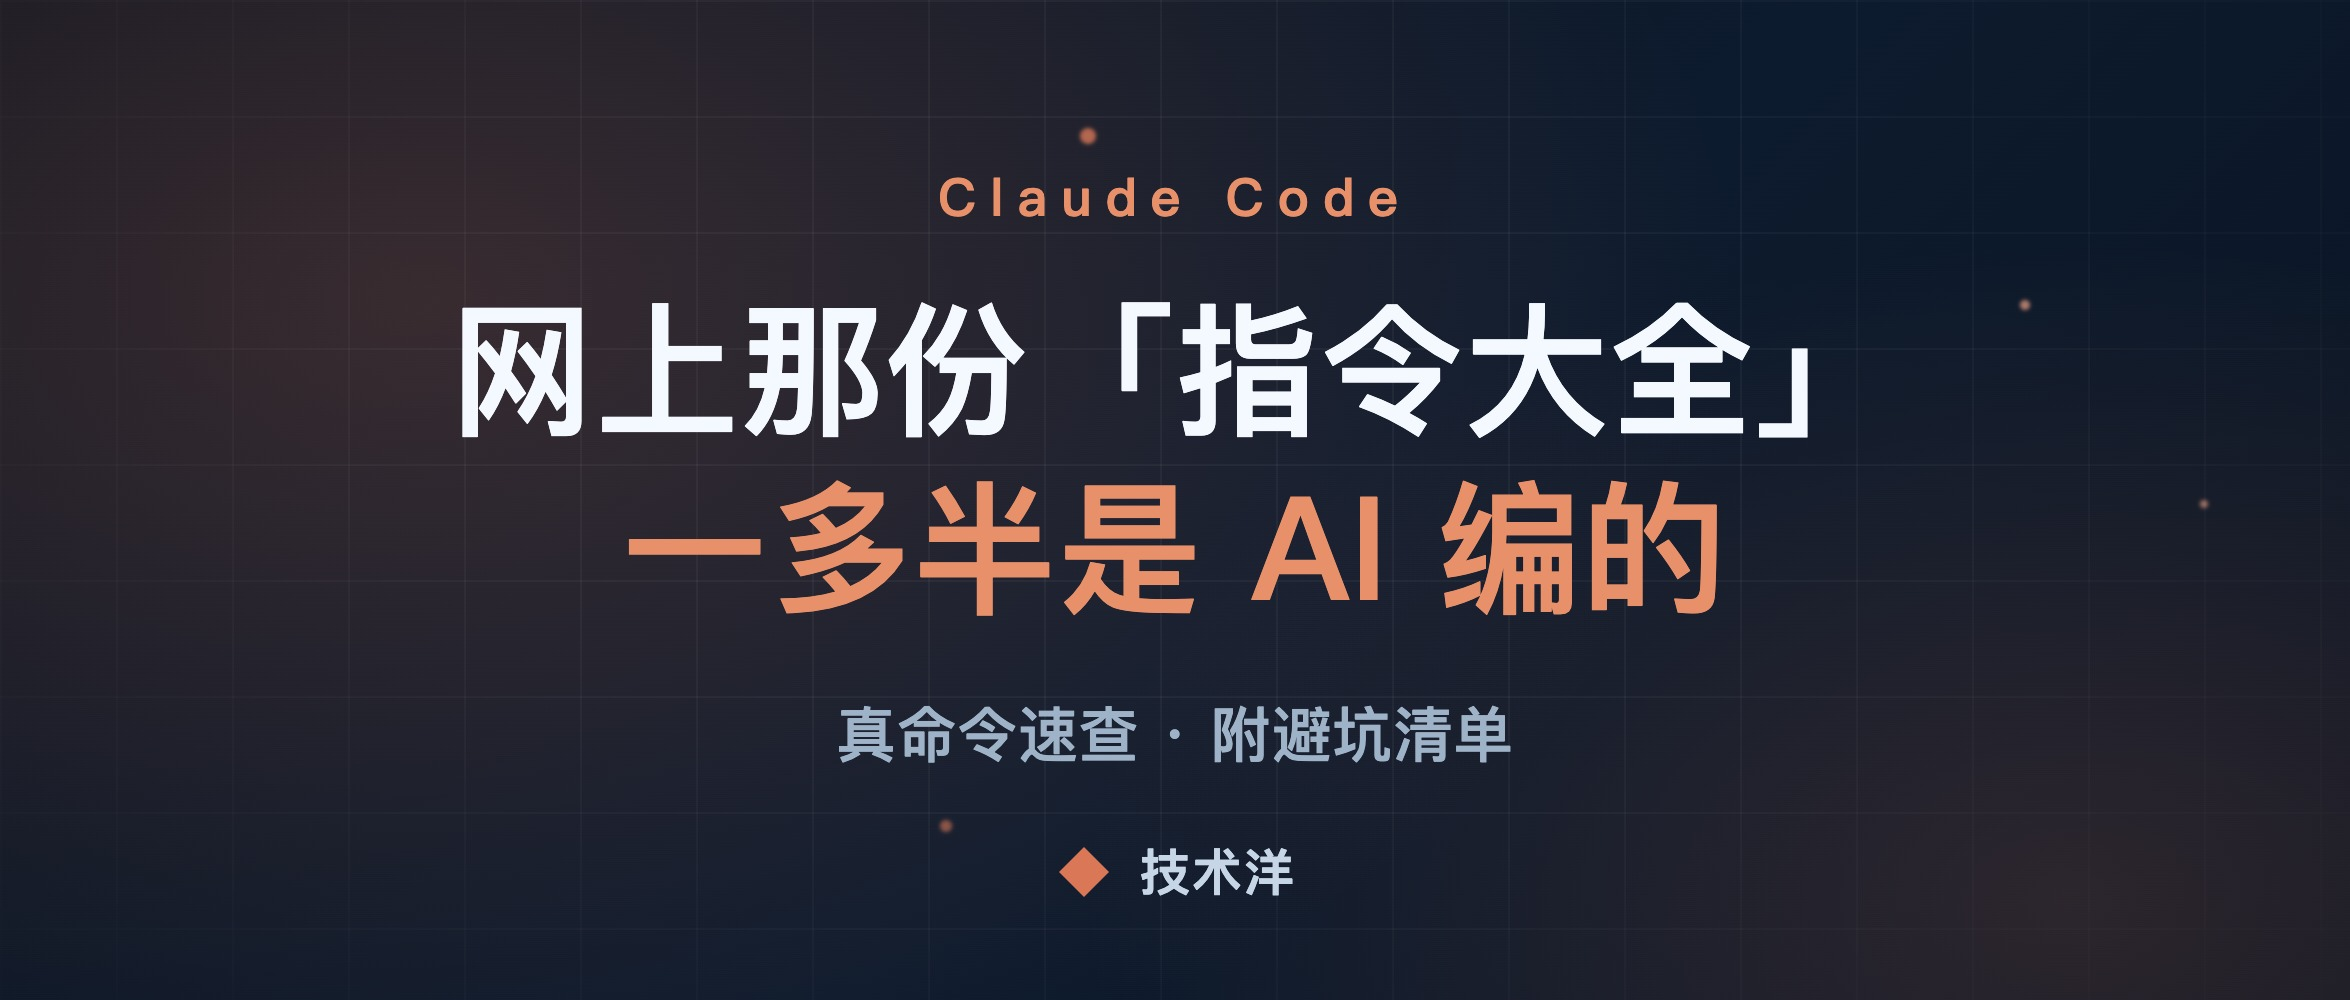
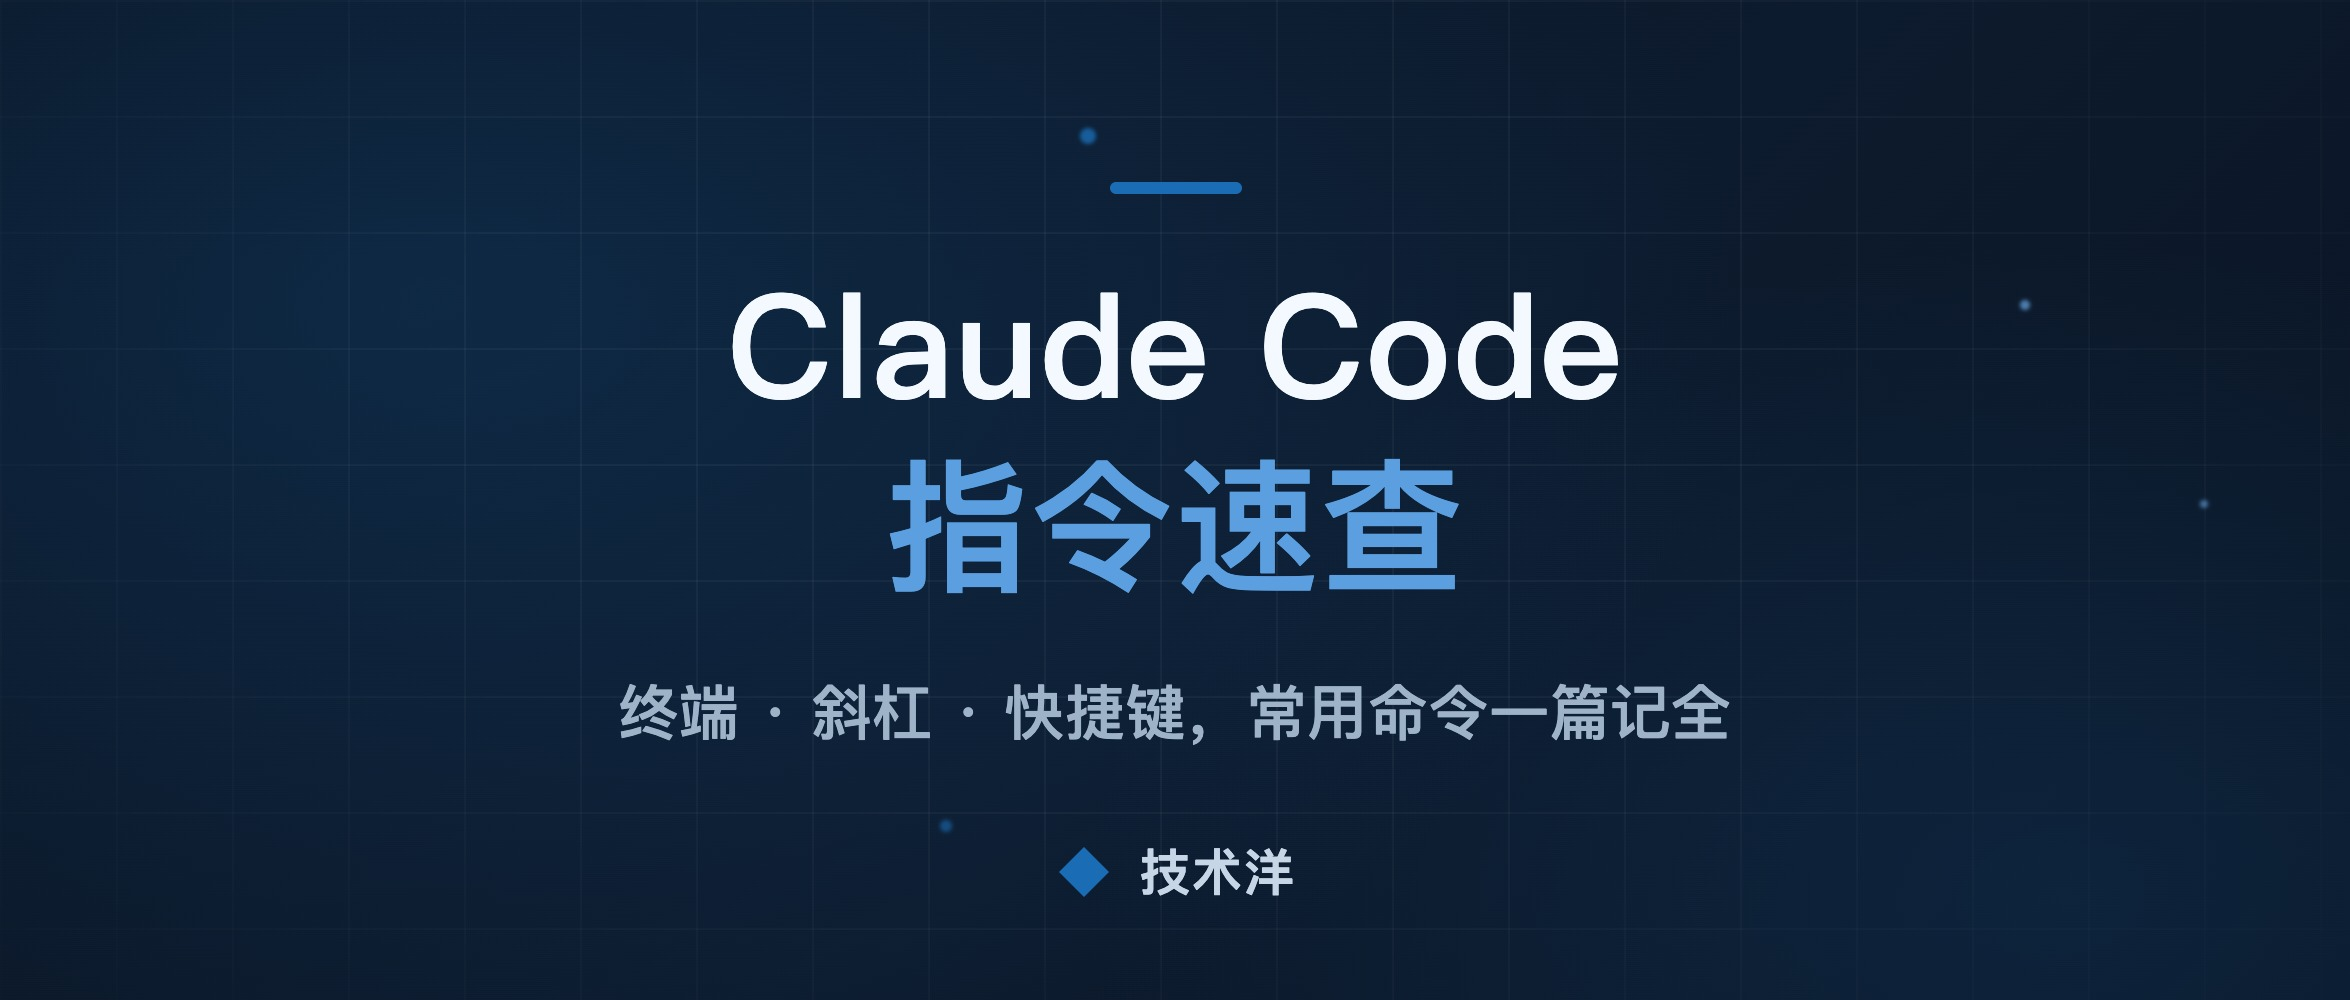
chore: add 系列三篇小红书贴图(文字密集版)+ 2:1 封面 + caption 正文；更新 commands 配图

diff --git a/20260626-config-governance/caption.md b/20260626-config-governance/caption.md
@@ -1,0 +1,24 @@
+AI 配置会越长越乱吗？🫠
+
+会！把研发规范变成 Claude Code 配置之后，新问题来了：谁都能加角色、加技能、加规则，加得多没人清理，半年后又变成「没人敢动的 Wiki」。
+
+配置也要治理，核心一句话——把它当代码管👇
+
+🔹 配置即代码
+全进 Git，改一处就是一个 commit，能评审、能回退，改坏了 git revert 就回去
+
+🔹 分层归属
+全局（个人通用）/ 团队（全员共享）/ 项目（专用），按「使用面」各归各位
+
+🔹 Skill 治理
+团队共享的用实体进库，别用软链（软链指向你的机器，队友 clone 下来是断的）
+
+🔹 Agent 治理
+少而精；最隐蔽的坑——改了角色职责，记得同步 CLAUDE.md 里的路由表
+
+🔹 定期除草
+过期规则删、重叠 skill 合、没人用的 agent 下线，配置越精简 AI 跑得越准
+
+把配置养好，是 AI native 团队真正的复利✨
+
+#ClaudeCode #AI编程 #研发效能 #程序员 #AI工具 #团队协作 #cursor

diff --git a/20260626-skill-management/caption.md b/20260626-skill-management/caption.md
@@ -1,0 +1,24 @@
+别再到处拷 Skill 了 🤯
+
+还在到处复制粘贴 Claude Code 的 Skill？这个项目装一份、那个项目又拷一份，改个 bug 满硬盘找副本同步，换台电脑全得从头配……问题不在 skill 多，是你把它当文件夹在管，没当成「资产」。
+
+分享我自己在用的一套管理法👇
+
+🔹 软链，别复制
+软链 = 快捷方式，本体只有一份，改一次处处生效，不会几份副本各改各的
+
+🔹 收进一个私有仓库
+一个子目录一个 skill，README 当索引、git 历史可回退，带脚本的 skill 还能用 lockfile 锁住依赖版本
+
+🔹 换机一行命令恢复
+clone 下来跑一条 for 循环，几十秒全挂好，依赖照 lockfile 一键装齐（从前手动找回 + 重配要大半天）
+
+🔹 按使用面分流
+通用的（代码自查 / 提交信息）挂全局；专用的（绑定某项目的脚手架）下放到项目里，不白占上下文
+
+🔹 命令记不住？让 Claude 自己建
+直接说「把 xx 软链到当前项目再加进 gitignore」，脏活全扔给它
+
+一句话：把 Skill 当资产管，别当文件夹管。仓库负责存得住、换得回，软链负责挂得灵活✨
+
+#ClaudeCode #AI编程 #程序员日常 #效率工具 #cursor #AI工具 #编程技巧

diff --git a/20260626-team-dev-spec/caption.md b/20260626-team-dev-spec/caption.md
@@ -1,0 +1,24 @@
+研发规范，装进一个 Git 仓库 👀
+
+我们团队的研发规范，现在真的是一个 Git 仓库。大多数团队靠一篇没人更新的 Wiki + 老人口头传，新人翻半天文档照样踩坑。我们换了个思路：把规范写成 Claude Code 的配置，跟代码一起进 Git，新人 clone 完整套自动就位。
+
+怎么做的👇
+
+🔹 一个「元仓库」装住整套环境
+只版本化团队配置，新人 clone 打开即继承，全员完全一致，零手配
+
+🔹 把分工写成 6 个 AI 角色
+产品架构 / 后端 / 前端 / 小程序 / 质量 / 运维，每个角色都绑定真实技术栈和红线
+
+🔹 任务自动路由
+不用记角色名，说人话就派给对的人；跨端破坏性改动先过产品架构师
+
+🔹 统一工具链
+MCP 接最新文档和研发系统，技能自动触发，全员同一套
+
+🔹 整条需求走流水线
+规划 → 设计 → 并行开发 → 质量门禁，只出可 review 的方案，不直接改代码
+
+规范的终点不是更厚的 Wiki，是一套会自己执行的配置🚀
+
+#ClaudeCode #AI编程 #研发效能 #程序员 #团队管理 #AI工具 #cursor